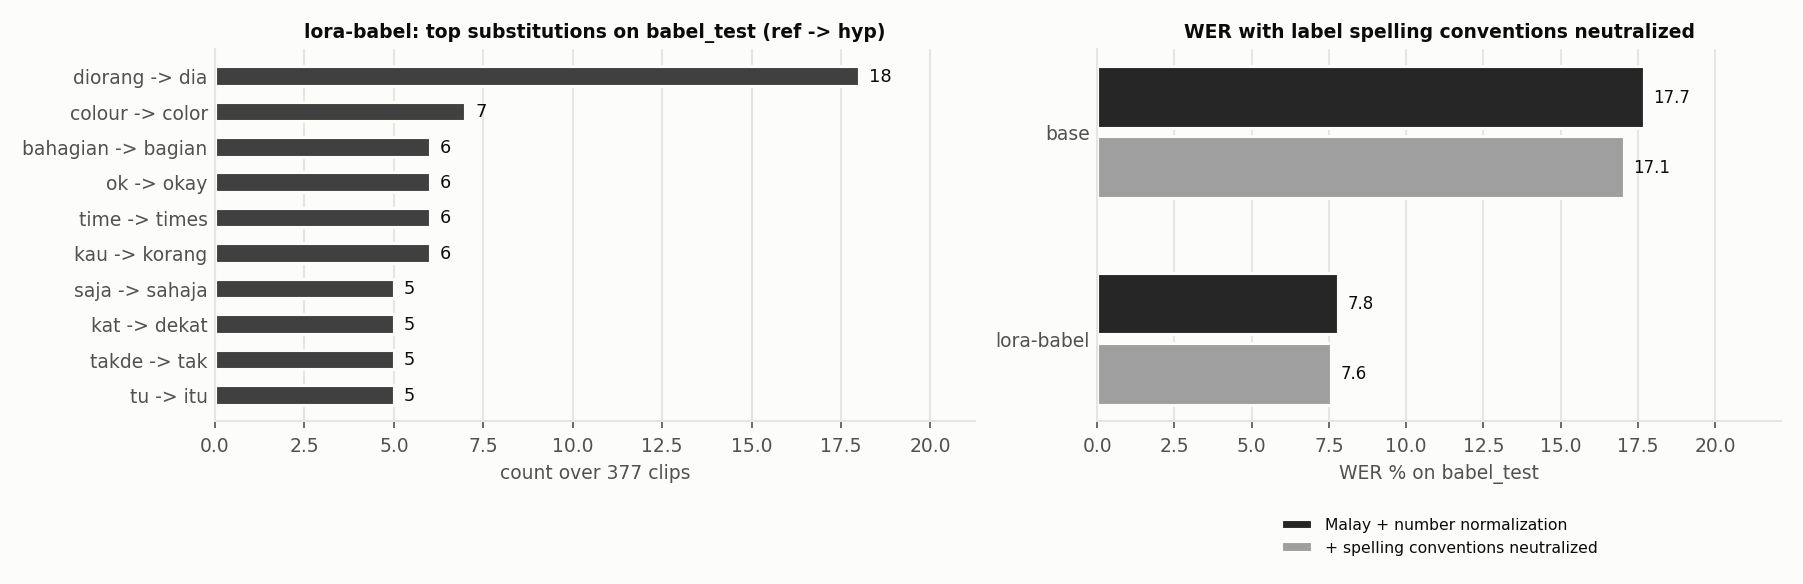
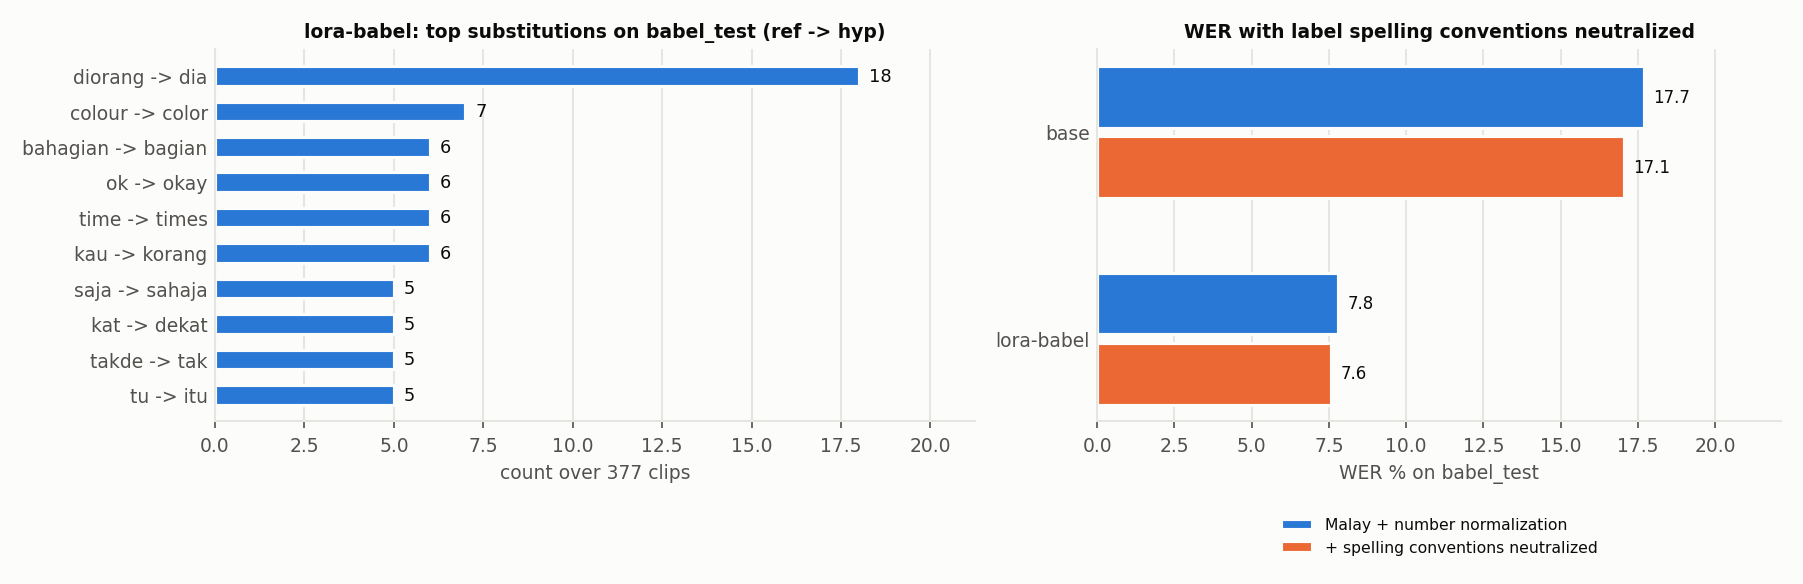
Figures back in colour; default USE_TF=0 so transformers imports with TensorFlow installed

diff --git a/plot_malay.py b/plot_malay.py
@@ -5,6 +5,8 @@
 Needs REVOLAB_DIR (clone of revolab-asr-benchmark) for the label-convention figure, which re-scores babel_test
 with score_malay's normalizer; that figure is skipped with a warning if the import fails.
 """
+import os
+os.environ.setdefault("USE_TF", "0")  # transformers 4.57 breaks on import if TensorFlow is installed
 import argparse
 import collections
 import difflib
@@ -126,14 +128,14 @@ def fig_train_curves(res, out):
 
 
 def fig_train_curves_babel(res, out):
-    """Train and eval loss of the final run only (lora-babel), greys."""
+    """Train and eval loss of the final run only (lora-babel), palette colours."""
     steps, by, evals = train_log(os.path.join(res, "train_log_lora50h-babel.jsonl"))
     fig, (a, b) = plt.subplots(1, 2, figsize=(11, 3.6))
-    a.plot(steps, smooth([by[s]["loss"] for s in steps]), color="#404040")
+    a.plot(steps, smooth([by[s]["loss"] for s in steps]), color=COLOR["lora-1.7b-malay50h-babel"])
     a.set_title("Train loss, lora-babel (per-step, 50-step rolling mean)")
     a.set_ylabel("loss"); a.set_xlabel("optimizer step (effective batch 16)"); a.set_ylim(1.2, 3.2)
     ex, ey = zip(*evals)
-    b.plot(ex, ey, color="#404040", marker="o", markersize=4, markeredgecolor=SURFACE, markeredgewidth=1)
+    b.plot(ex, ey, color=COLOR["lora-1.7b-malay50h-babel"], marker="o", markersize=4, markeredgecolor=SURFACE, markeredgewidth=1)
     b.annotate(f"final {ey[-1]:.3f}", (ex[-1], ey[-1]), textcoords="offset points", xytext=(6, 4), fontsize=8, color=INK2)
     b.set_title("Eval loss (200 valid clips, every 200 steps)")
     b.set_xlabel("optimizer step (effective batch 16)"); b.set_ylim(0.74, 1.0)
@@ -332,7 +334,7 @@ def fig_babel_conventions(res, out):
 def fig_final_only(res, out):
     """Grey, final-run-only variants of the Revolab-by-domain and label-convention figures (for the deck)."""
     rev = J(os.path.join(res, "revolab_summary.json"))
-    runs = ["base", "lora-1.7b-malay50h-babel"]; col = {"base": "#BFBFBF", "lora-1.7b-malay50h-babel": "#262626"}
+    runs = ["base", "lora-1.7b-malay50h-babel"]; col = {r: COLOR[r] for r in runs}
     domains = [d for d in rev["base"] if d not in ("infer_seconds", "All")]
     domains.sort(key=lambda d: rev["base"][d]["wer"])
     fig, ax = plt.subplots(figsize=(9, 5)); y = np.arange(len(domains))
@@ -354,7 +356,7 @@ def fig_final_only(res, out):
     preds = {r: rows(os.path.join(res, f"babel_test_{r}_predictions.jsonl")) for r in runs}
     fig = plt.figure(figsize=(12, 4)); gs = fig.add_gridspec(1, 2, width_ratios=[1, 0.9])
     ax = fig.add_subplot(gs[0, 0]); top = top_substitutions(preds["lora-1.7b-malay50h-babel"])
-    hbar(ax, [f"{a} -> {b}" for (a, b), _ in top], [c for _, c in top], ["#404040"] * len(top), fmt="{:.0f}")
+    hbar(ax, [f"{a} -> {b}" for (a, b), _ in top], [c for _, c in top], [ERR_COLORS["sub"]] * len(top), fmt="{:.0f}")
     ax.set_title("lora-babel: top substitutions on babel_test (ref -> hyp)", fontsize=9); ax.set_xlabel("count over 377 clips")
     ax = fig.add_subplot(gs[0, 1])
     try:
@@ -370,8 +372,8 @@ def fig_final_only(res, out):
         raw = [jiwer.wer([num(r["ref"]) for r in preds[k]], [num(r["hyp"]) for r in preds[k]]) * 100 for k in runs]
         neu = [jiwer.wer([neutral(r["ref"]) for r in preds[k]], [neutral(r["hyp"]) for r in preds[k]]) * 100 for k in runs]
         y = np.arange(len(runs))[::-1]
-        ax.barh(y + 0.17, raw, height=0.3, color="#262626", edgecolor=SURFACE, linewidth=1.5, label="Malay + number normalization")
-        ax.barh(y - 0.17, neu, height=0.3, color="#9F9F9F", edgecolor=SURFACE, linewidth=1.5, label="+ spelling conventions neutralized")
+        ax.barh(y + 0.17, raw, height=0.3, color="#2a78d6", edgecolor=SURFACE, linewidth=1.5, label="Malay + number normalization")
+        ax.barh(y - 0.17, neu, height=0.3, color="#eb6834", edgecolor=SURFACE, linewidth=1.5, label="+ spelling conventions neutralized")
         for yi, a, b in zip(y, raw, neu):
             ax.text(a + 0.3, yi + 0.17, f"{a:.1f}", va="center", fontsize=8, color=INK); ax.text(b + 0.3, yi - 0.17, f"{b:.1f}", va="center", fontsize=8, color=INK)
         ax.set_yticks(y, ["base", "lora-babel"]); ax.tick_params(axis="y", length=0); ax.grid(axis="y", visible=False)

diff --git a/eval_wer.py b/eval_wer.py
@@ -5,6 +5,8 @@ QLoRA adapters are merged into the bf16 base for evaluation.
 
 Usage: python eval_wer.py [--max_samples N] [--out outputs/eval_test]
 """
+import os
+os.environ.setdefault("USE_TF", "0")  # transformers 4.57 breaks on import if TensorFlow is installed
 import argparse
 import json
 import os

diff --git a/score_malay.py b/score_malay.py
@@ -6,6 +6,8 @@
 
 Usage: python score_malay.py --dir outputs/eval_malay50h [--systems base lora-1.7b-malay50h]
 """
+import os
+os.environ.setdefault("USE_TF", "0")  # transformers 4.57 breaks on import if TensorFlow is installed
 import argparse
 import json
 import os
